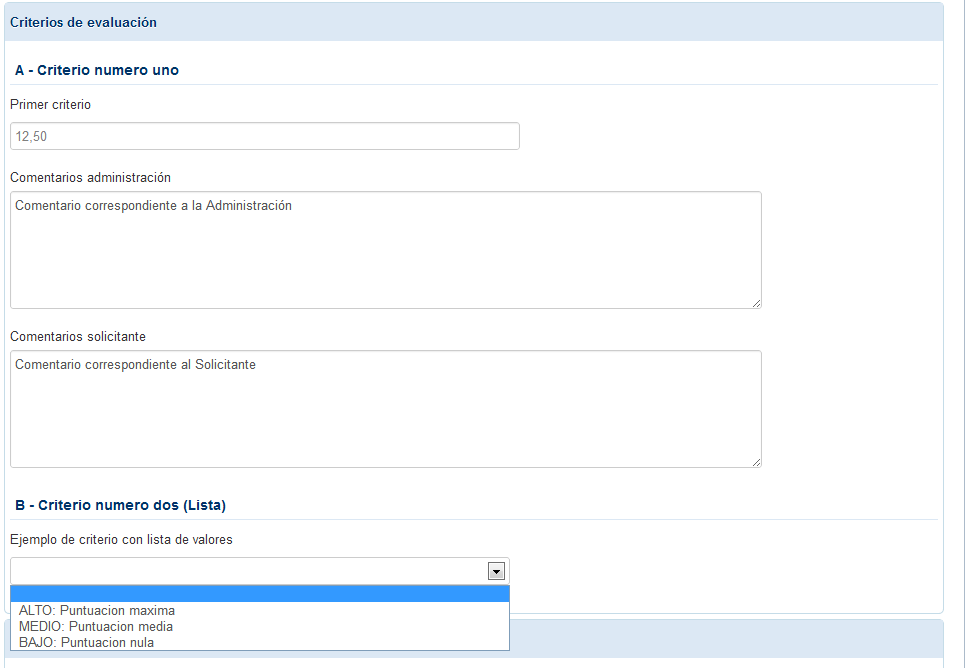
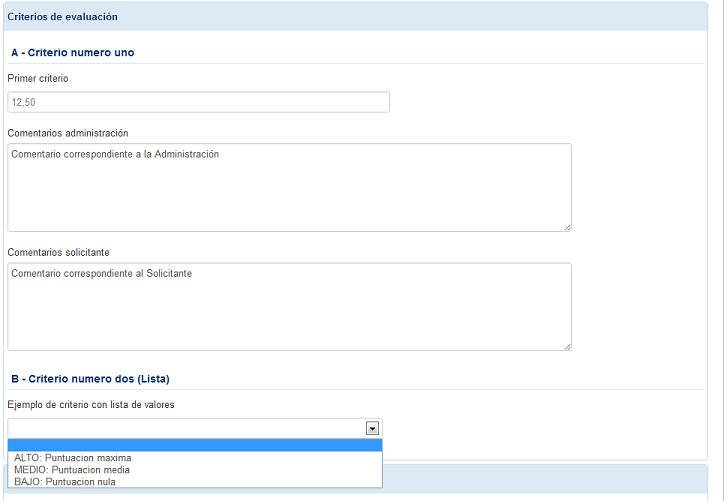
+ Reduciendo tamaño de las imágenes de admin-Baremacion + Modificando Documentación + Añadiendo wiki.css para correcta vision de tablas en documentación

diff --git a/fap/public/playmanual/wiki.css b/fap/public/playmanual/wiki.css
@@ -1,0 +1,39 @@
+.wikistyle h1,.wikistyle h2,.wikistyle h3,.wikistyle h4,.wikistyle h5,.wikistyle h6{border:0!important;text-shadow: #fff 1px 1px 0px;}
+.wikistyle h1{font-size:170%!important;border-top:4px solid #aaa!important;padding-top:.5em!important;margin-top:1.5em!important;}
+.wikistyle h1:first-child{margin-top:0!important;padding-top:.25em!important;border-top:none!important;}
+.wikistyle h2{font-size:150%!important;margin-top:1.5em!important;border-top:4px solid #e0e0e0!important;padding-top:.5em!important;}
+.wikistyle h3{margin-top:1em!important;}
+.wikistyle p{margin:1em 0!important;line-height:1.5em!important;}
+.wikistyle ul{margin:1em 0 1em 2em!important; list-style: square; line-height: 24px;}
+.wikistyle ol{margin:1em 0 1em 2em!important; list-style-position: outside; list-style-type: decimal; line-height: 24px;}
+.wikistyle ul ul,.wikistyle ul ol,.wikistyle ol ol,.wikistyle ol ul{margin-top:0!important;margin-bottom:0!important;}
+.wikistyle blockquote{margin:1em 0 2em 0!important;border-left:5px solid #ddd!important;padding-left:.6em!important;color:#666!important;}
+.wikistyle dt{font-weight:bold!important;margin-left:1em!important;}
+.wikistyle dd{margin-left:2em!important;margin-bottom:1em!important;}
+.wikistyle table{margin:1em 0!important;width:650px;}
+.wikistyle table th{border-bottom:1px solid #bbb!important;padding:.2em 1em!important;}
+.wikistyle table td{border-bottom:1px solid #000!important;padding:.2em 1em!important;}
+.wikistyle table td:first-child{padding-left:0!important;}
+.wikistyle table td:last-child{padding-right:0!important;}
+.wikistyle pre{margin:1em 0 2em 0!important;font-size:90%!important;background-color:#f8f8ff!important;border-left:4px solid #e0e0e0!important;padding:.5em!important;line-height:1.5em!important;color:#444!important;overflow:auto!important;}
+.wikistyle code{font-family:Consolas,"Andale Mono",monospace;font-size:90%;color:#444;background-color:#f8f8ff;border:1px solid #e0e0e0;padding:0 0.2em!important;}
+.wikistyle pre code{display:block;padding:0!important;padding-left:10px!important;font-size:100%!important;border:none!important;}
+.wikistyle pre.console{margin:1em 0!important;font-size:90%!important;background-color:black!important;padding:.5em!important;line-height:1.5em!important;color:white!important;}
+.wikistyle pre.console code{padding:0!important;font-size:100%!important;background-color:black!important;border:none!important;color:white!important;}
+.wikistyle pre.console span{color:#888!important;}
+.wikistyle pre.console span.command{color:yellow!important;}
+.wikistyle h1:after, .wikistyle h2:after, .wikistyle h3:after {content: '';}
+.wikistyle a{color: #444;}
+.wikistyle hr{height: 1px; border: none; background: #e0e0e0; margin: 30px 0;}
+.wikistyle img {max-width: 642px; border:4px solid #e0e0e0!important;}
+.wikistyle p.note {background:#FFF9D8!important; padding: 10px!important;color:#333!important;border-left:6px solid #F3E378!important;}
+
+
+table tbody tr th {
+	border: 1px solid #000;
+	background-color: #DCDCDC;
+}
+
+table tbody tr td {
+	border: 1px solid #000;
+}
